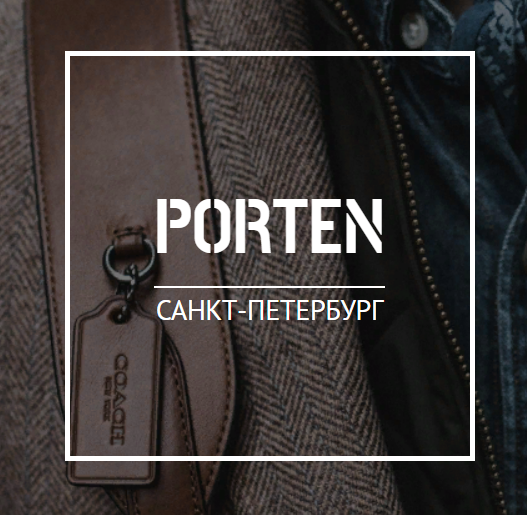
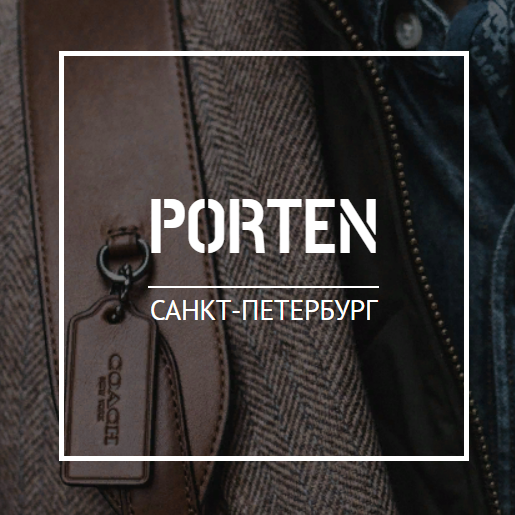
Адаптированны проекты

diff --git a/style.css b/style.css
@@ -1,1 +1,1 @@
-*{font-family:Arial,Helvetica,sans-serif}body{margin:0;padding:0;background-color:#070101;color:#fff;overflow-x:hidden}.wrapper{margin:0 auto;padding:16px;max-width:1280px}.mark{color:#fcb93c}a,a:hover,a:visited{text-decoration:none}header{width:100%;position:relative;z-index:9999;background-color:#070101}header .wrapper{display:flex;justify-content:space-between;align-items:center}header menu{display:flex;align-items:center}header .header_menu{display:flex;align-items:center;list-style:none;padding:0;margin:0}header .header_menu li{padding:8px 16px;color:#fff;transition:color .3s ease-out;text-transform:uppercase;text-decoration:none}header .header_menu li:hover{color:#fcb93c}header .header_menu--float{width:100vw;display:flex;flex-direction:column;align-items:stretch;margin:0;padding:0;list-style:none;text-align:center}header .header_menu--float li{padding:16px 0;color:#fff;text-transform:uppercase}header .header_menu--float li:hover{background-color:#191919;color:#fcb93c}header .header_menu--float-opened{position:fixed;background-color:#131313}header .header_menu--float-closed{opacity:0;visibility:hidden;position:absolute}header .menu_button{display:none}header .menu_button .header_button{height:24px;width:42px;display:flex;flex-direction:column;display:flex;justify-content:center;align-items:center;border:0ch;background-color:#fff0}header .menu_button .header_button_line{height:2px;width:100%;border-radius:2px;transition:transform .5s linear;-o-transition:transform .5s linear;-moz-transition:transform .5s linear;-moz-transition:transform .5s linear;background-color:#fff}header .menu_button .header_button_line--top,header .menu_button .header_button_line--bottom{width:32px;height:3px;background-color:#fff;border-radius:6px;transform:rotate(0deg)}header .menu_button .header_button_line--bottom{margin-top:16px;transition-property:margin-top,transform;transition-timing-function:linear;transition-duration:100ms}header .menu_button .header_button_line--top{transition:transform 100ms linear}.baner{position:relative;z-index:1000;display:grid;grid-template-columns:1fr 1fr;justify-items:center;align-items:center}.baner_sayHi{font-size:32px;font-weight:bold;padding-left:10%}.baner_sayHi p{max-width:640px}.baner_code{display:grid;grid-template-columns:1fr 1fr;gap:16px;position:absolute;z-index:999;left:10%;filter:blur(2px)}.baner_language-js{color:#fcb93c}.baner_avatar{height:80vh;background-size:100%;background-repeat:no-repeat;position:relative;z-index:999;width:50vw}.baner_avatar img{position:absolute;z-index:1000;height:90%;bottom:0;right:0}.qute{background:#131313;position:relative;z-index:1000;font-family:"Arial";font-style:italic;font-weight:700;font-size:32px;line-height:37px}.qute .wrapper{padding:177px 16px 100px 16px;max-width:950px;display:flex;flex-direction:column;justify-content:center;align-items:flex-end}.qute_text{position:relative}.qute_text::before{content:"＂";position:absolute;top:-0.5em;left:-1em;font-family:"Arial";font-style:normal;font-weight:900;font-size:96px;line-height:135px;color:#fcb93c}.qute_author{font-family:"Arial";font-style:normal;font-weight:400;font-size:24px;line-height:28px}.skills{background-color:#070101;position:relative;z-index:1000}.skills_icons{display:flex;justify-content:center;align-items:center;gap:16px;flex-wrap:wrap;padding:10% 0}.skills_skill{display:flex;flex-direction:column;align-items:center;justify-content:center;padding:32px;border-radius:16px;transition:background-color .2s ease-out}.skills_skill:hover{background-color:#242424}.skills .skill_icon{width:112px}.skills_name{font-family:"Arial";font-style:normal;font-weight:700;font-size:24px;line-height:28px}.projects{padding:32px 0}.projects .wrapper{display:flex;justify-content:center;gap:90px}.projects_card{display:flex;flex-direction:column;align-items:center}.projects_preview{width:305px;height:305px;border-radius:6px;box-shadow:20px 16px 0px #fcb93c;background-color:gray;background-position:center;background-size:cover;background-repeat:no-repeat}.projects_preview--9{background-image:url("pic/preview_layout_9.png")}.projects_preview--5{background-image:url("pic/preview_layout_5.png")}.projects_preview--6{background-image:url("pic/preview_layout_6.png")}.projects_preview--13{background-image:url("pic/preview_layout_13.png")}.projects_name{font-family:"Arial";font-style:normal;font-weight:700;font-size:36px;line-height:41px;text-align:center;color:#fff}.projects_links{display:grid;grid-template-columns:4fr 1fr;gap:20px}.projects_link--site{background-color:#fcb93c;display:flex;justify-content:center;align-items:center;border-radius:16px;color:#000;transition-property:color,background-color;transition-timing-function:cubic-bezier(0.075, 0.82, 0.165, 1);transition-duration:.4s}.projects_link--site span{font-weight:bold;text-transform:uppercase}.projects_link--site:hover{background-color:#c38003;color:#f5f5f5}.projects_link--github{opacity:100%;transition-property:opacity;transition-timing-function:cubic-bezier(0.075, 0.82, 0.165, 1);transition-duration:.4s}.projects_link--github:hover{opacity:80%}.contacts{background-color:#141414}.contacts .wrapper{font-family:"Arial";font-style:normal;font-weight:700;font-size:32px;line-height:37px;color:#fff;padding:32px}.contacts p{max-width:520px}.contacts_icons{display:flex;gap:20px}.contacts_contact{width:53px;height:53px}@media screen and (max-width: 480px){header .header_button--open{opacity:1}header .header_menu{display:none}header .menu_button{display:block}header .header_logo{font-size:24px}.wrapper{padding:0 10px}.baner{display:grid;grid-template-columns:1fr;justify-items:center;align-items:center}.baner_sayHi{padding:16px}.baner_sayHi p{max-width:100vw}.baner_avatar{width:100%}.baner_code{grid-template-columns:1fr;left:0}.qute{font-size:24px;line-height:29px}.qute_text::before{font-size:96px;top:-1em;left:-0.5em}.qute_author{font-size:20px}.projects .wrapper{flex-direction:column}.contacts .wrapper{padding:16px 32px}}
+*{font-family:Arial,Helvetica,sans-serif}body{margin:0;padding:0;background-color:#070101;color:#fff;overflow-x:hidden}.wrapper{margin:0 auto;padding:16px;max-width:1280px}.mark{color:#fcb93c}a,a:hover,a:visited{text-decoration:none}header{width:100%;position:relative;z-index:9999;background-color:#070101}header .wrapper{display:flex;justify-content:space-between;align-items:center}header menu{display:flex;align-items:center}header .header_menu{display:flex;align-items:center;list-style:none;padding:0;margin:0}header .header_menu li{padding:8px 16px;color:#fff;transition:color .3s ease-out;text-transform:uppercase;text-decoration:none}header .header_menu li:hover{color:#fcb93c}header .header_menu--float{width:100vw;display:flex;flex-direction:column;align-items:stretch;margin:0;padding:0;list-style:none;text-align:center}header .header_menu--float li{padding:16px 0;color:#fff;text-transform:uppercase}header .header_menu--float li:hover{background-color:#191919;color:#fcb93c}header .header_menu--float-opened{position:fixed;background-color:#131313}header .header_menu--float-closed{opacity:0;visibility:hidden;position:absolute}header .menu_button{display:none}header .menu_button .header_button{height:24px;width:42px;display:flex;flex-direction:column;display:flex;justify-content:center;align-items:center;border:0ch;background-color:#fff0}header .menu_button .header_button_line{height:2px;width:100%;border-radius:2px;transition:transform .5s linear;-o-transition:transform .5s linear;-moz-transition:transform .5s linear;-moz-transition:transform .5s linear;background-color:#fff}header .menu_button .header_button_line--top,header .menu_button .header_button_line--bottom{width:32px;height:3px;background-color:#fff;border-radius:6px;transform:rotate(0deg)}header .menu_button .header_button_line--bottom{margin-top:16px;transition-property:margin-top,transform;transition-timing-function:linear;transition-duration:100ms}header .menu_button .header_button_line--top{transition:transform 100ms linear}.baner{position:relative;z-index:1000;display:grid;grid-template-columns:1fr 1fr;justify-items:center;align-items:center}.baner_sayHi{font-size:32px;font-weight:bold;padding-left:10%}.baner_sayHi p{max-width:640px}.baner_code{display:grid;grid-template-columns:1fr 1fr;gap:16px;position:absolute;z-index:999;left:10%;filter:blur(2px)}.baner_language-js{color:#fcb93c}.baner_avatar{height:80vh;background-size:100%;background-repeat:no-repeat;position:relative;z-index:999;width:50vw}.baner_avatar img{position:absolute;z-index:1000;height:90%;bottom:0;right:0}.qute{background:#131313;position:relative;z-index:1000;font-family:"Arial";font-style:italic;font-weight:700;font-size:32px;line-height:37px}.qute .wrapper{padding:177px 16px 100px 16px;max-width:950px;display:flex;flex-direction:column;justify-content:center;align-items:flex-end}.qute_text{position:relative}.qute_text::before{content:"＂";position:absolute;top:-0.5em;left:-1em;font-family:"Arial";font-style:normal;font-weight:900;font-size:96px;line-height:135px;color:#fcb93c}.qute_author{font-family:"Arial";font-style:normal;font-weight:400;font-size:24px;line-height:28px}.skills{background-color:#070101;position:relative;z-index:1000}.skills_icons{display:flex;justify-content:center;align-items:center;gap:16px;flex-wrap:wrap;padding:10% 0}.skills_skill{display:flex;flex-direction:column;align-items:center;justify-content:center;padding:32px;border-radius:16px;transition:background-color .2s ease-out}.skills_skill:hover{background-color:#242424}.skills .skill_icon{width:112px}.skills_name{font-family:"Arial";font-style:normal;font-weight:700;font-size:24px;line-height:28px}.projects{padding:32px 0}.projects .wrapper{display:grid;grid-template-columns:repeat(3, 1fr);padding:16px 64px;gap:90px}.projects_card{display:flex;flex-direction:column;align-items:center}.projects_preview{width:100%;border-radius:6px;box-shadow:20px 16px 0px #fcb93c;background-color:gray;background-position:center;background-size:cover;background-repeat:no-repeat}.projects_name{font-family:"Arial";font-style:normal;font-weight:700;font-size:36px;line-height:41px;text-align:center;color:#fff}.projects_links{display:grid;grid-template-columns:4fr 1fr;gap:20px}.projects_link--site{background-color:#fcb93c;display:flex;justify-content:center;align-items:center;border-radius:16px;color:#000;transition-property:color,background-color;transition-timing-function:cubic-bezier(0.075, 0.82, 0.165, 1);transition-duration:.4s}.projects_link--site span{font-weight:bold;text-transform:uppercase}.projects_link--site:hover{background-color:#c38003;color:#f5f5f5}.projects_link--github{opacity:100%;transition-property:opacity;transition-timing-function:cubic-bezier(0.075, 0.82, 0.165, 1);transition-duration:.4s}.projects_link--github:hover{opacity:80%}.contacts{background-color:#141414}.contacts .wrapper{font-family:"Arial";font-style:normal;font-weight:700;font-size:32px;line-height:37px;color:#fff;padding:32px}.contacts p{max-width:520px}.contacts_icons{display:flex;gap:20px}.contacts_contact{width:53px;height:53px}@media screen and (max-width: 1024px){.projects .wrapper{grid-template-columns:repeat(2, 1fr)}}@media screen and (max-width: 770px){.baner{grid-template-columns:1fr 1fr}header .header_button--open{opacity:1}header .header_menu{display:none}header .menu_button{display:block}header .header_logo{font-size:24px}.baner{justify-items:right}}@media screen and (max-width: 480px){header .header_button--open{opacity:1}header .header_menu{display:none}header .menu_button{display:block}header .header_logo{font-size:24px}.wrapper{padding:0 10px}.baner{display:grid;grid-template-columns:1fr;justify-items:center;align-items:right}.baner_sayHi{padding:16px}.baner_sayHi p{max-width:100vw}.baner_avatar{width:100%}.baner_code{grid-template-columns:1fr;left:0}.qute{font-size:24px;line-height:29px}.qute_text::before{font-size:96px;top:-1em;left:-0.5em}.qute_author{font-size:20px}.projects .wrapper{grid-template-columns:repeat(1, 1fr);padding:16px 8px}.projects_preview{transform:scale(80%)}.contacts .wrapper{padding:16px 32px}}

diff --git a/style.scss b/style.scss
@@ -281,8 +281,9 @@ header {
 .projects {
   padding: 32px 0;
   .wrapper {
-    display: flex;
-    justify-content: center;
+    display: grid;
+    grid-template-columns: repeat(3,1fr);
+    padding: 16px 64px;
     gap: 90px;
   }
   &_card {
@@ -291,8 +292,10 @@ header {
     align-items: center;
   }
   &_preview {
-    width: 305px;
-    height: 305px;
+    // width: 305px;
+    // height: 305px;
+
+    width: 100%;
 
     border-radius: 6px;
 
@@ -303,18 +306,6 @@ header {
     background-position: center;
     background-size: cover;
     background-repeat: no-repeat;
-  }
-  &_preview--9 {
-    background-image: url("pic/preview_layout_9.png");
-  }
-  &_preview--5 {
-    background-image: url("pic/preview_layout_5.png");
-  }
-  &_preview--6 {
-    background-image: url("pic/preview_layout_6.png");
-  }
-  &_preview--13 {
-    background-image: url("pic/preview_layout_13.png");
   }
   &_name {
     font-family: "Arial";
@@ -389,19 +380,45 @@ header {
   }
 }
 
+@media screen and (max-width:1024px) {
+  .projects {
+    .wrapper {
+      grid-template-columns: repeat(2, 1fr);
+    }
+  }
+}
+
+@media screen and (max-width:770px) {
+  .baner {
+    grid-template-columns: 1fr 1fr;
+  }
+  header {
+    .header_button--open {
+      opacity: 1;
+    }
+
+    .header_menu {
+      display: none;
+    }
+
+    .menu_button {
+      display: block;
+    }
+
+    .header_logo {
+      font-size: 24px;
+    }
+  }
+  .baner {
+    justify-items: right;
+  }
+}
+
 @media screen and (max-width: 480px) {
   header {
     .header_button--open {
       opacity: 1;
     }
-    .header_button--close {
-      // opacity: 0;
-    }
-    // menu {
-    //   position: absolute;
-    //   visibility: hidden;
-    //   display: none;
-    // }
 
     .header_menu {
       display: none;
@@ -422,7 +439,7 @@ header {
     display: grid;
     grid-template-columns: 1fr;
     justify-items: center;
-    align-items: center;
+    align-items: right;
     &_sayHi {
       // font-size: 16px;
       padding: 16px;
@@ -455,7 +472,11 @@ header {
   }
   .projects {
     .wrapper {
-      flex-direction: column;
+      grid-template-columns: repeat(1, 1fr);
+      padding: 16px 8px;
+    }
+    &_preview {
+      transform: scale(80%);
     }
   }
   .contacts {

diff --git a/index.html b/index.html
@@ -154,7 +154,7 @@ for (let i = 0; i < arrThings.length; i++) {
   <div class="projects" id="projects">
     <div class="wrapper">
       <div class="projects_card">
-        <div class="projects_preview projects_preview--9"></div>
+        <img src="pic/preview_layout_9.png" class="projects_preview projects_preview--9">
         <h3 class="projects_name">Back&Pack</h3>
         <div class="projects_links">
           <a href="layouts/layout_9/index.html" class="projects_link projects_link--site">
@@ -171,7 +171,7 @@ for (let i = 0; i < arrThings.length; i++) {
         </div>
       </div>
       <div class="projects_card">
-        <div class="projects_preview projects_preview--5"></div>
+        <img src="pic/preview_layout_5.png" class="projects_preview projects_preview--5">
         <h3 class="projects_name">Porten</h3>
         <div class="projects_links">
           <a href="layouts/layout_5/index.html" class="projects_link projects_link--site">
@@ -188,7 +188,7 @@ for (let i = 0; i < arrThings.length; i++) {
         </div>
       </div>
       <div class="projects_card">
-        <div class="projects_preview projects_preview--6"></div>
+        <img src="pic/preview_layout_6.png" class="projects_preview projects_preview--6">
         <h3 class="projects_name">News Blog</h3>
         <div class="projects_links">
           <a href="layouts/layout_6/index.html" class="projects_link projects_link--site">
@@ -205,7 +205,7 @@ for (let i = 0; i < arrThings.length; i++) {
         </div>
       </div>
       <div class="projects_card">
-        <div class="projects_preview projects_preview--13"></div>
+        <img src="pic/preview_layout_13.png" class="projects_preview projects_preview--13">
         <h3 class="projects_name">FitTime</h3>
         <div class="projects_links">
           <a href="layouts/layout_13/index.html" class="projects_link projects_link--site">
